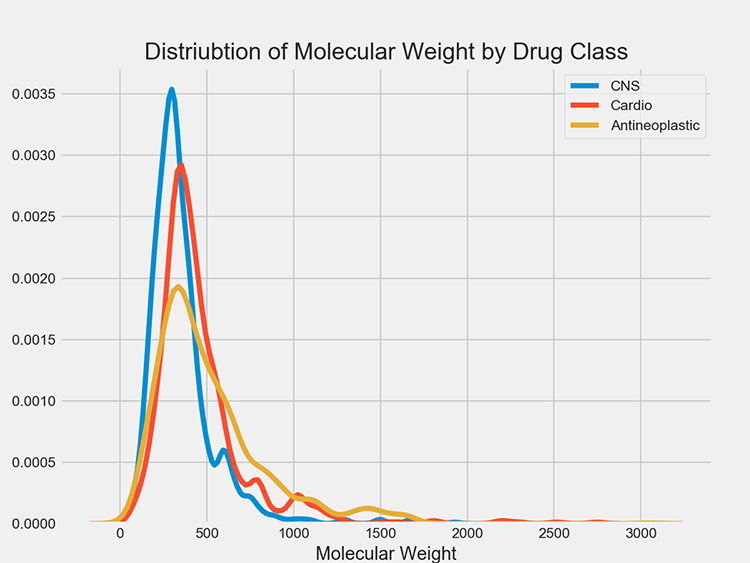
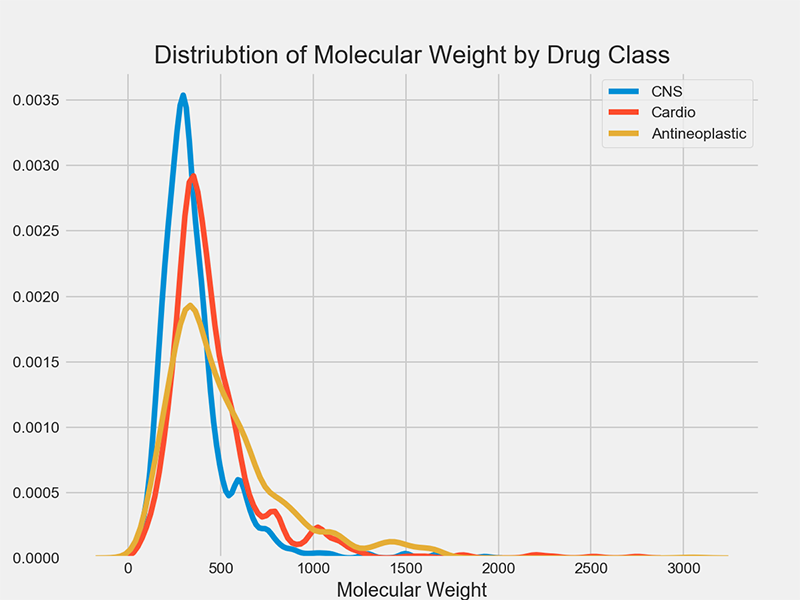
fix plot sizes

diff --git a/README.md b/README.md
@@ -70,10 +70,10 @@ From this distribution, we can see that the molecular weights are distinct for e
 Hydrogen bonds are a special type of attraction where one hydrogen atom bonds to a very electronegative atom in vicinity of another electronegative atom with a lone pair of electrons [(source).](https://chem.libretexts.org/Bookshelves/Physical_and_Theoretical_Chemistry_Textbook_Maps/Supplemental_Modules_\(Physical_and_Theoretical_Chemistry\)/Physical_Properties_of_Matter/Atomic_and_Molecular_Properties/Intermolecular_Forces/Specific_Interactions/Hydrogen_Bonding)
 
 __Hydrogen bond acceptors__ are typically electronegative atoms that have a lone pair of electrons.
-[! Hydrogen bond acceptors](./plots/hbond_acceptors.png)
+![Hydrogen bond acceptors](./plots/hbond_acceptors.png)
 
 __Hydrogen bond donors__ are hydrogens that are attached to one of those electronegative elements(like Oxygen or Nitrogen). The positive charge that this hydrogen acquires allows it to bond to the nearby electronegative atom.
-[! Hydrogen bond donors](./plots/hbond_donors.png)
+![Hydrogen bond donors](./plots/hbond_donors.png)
 
 
 From these boxplot charts, we see the Antineoplastic drugs have generally more H bond acceptors and H bond donors per molecule. The distribution ranges for each class.
